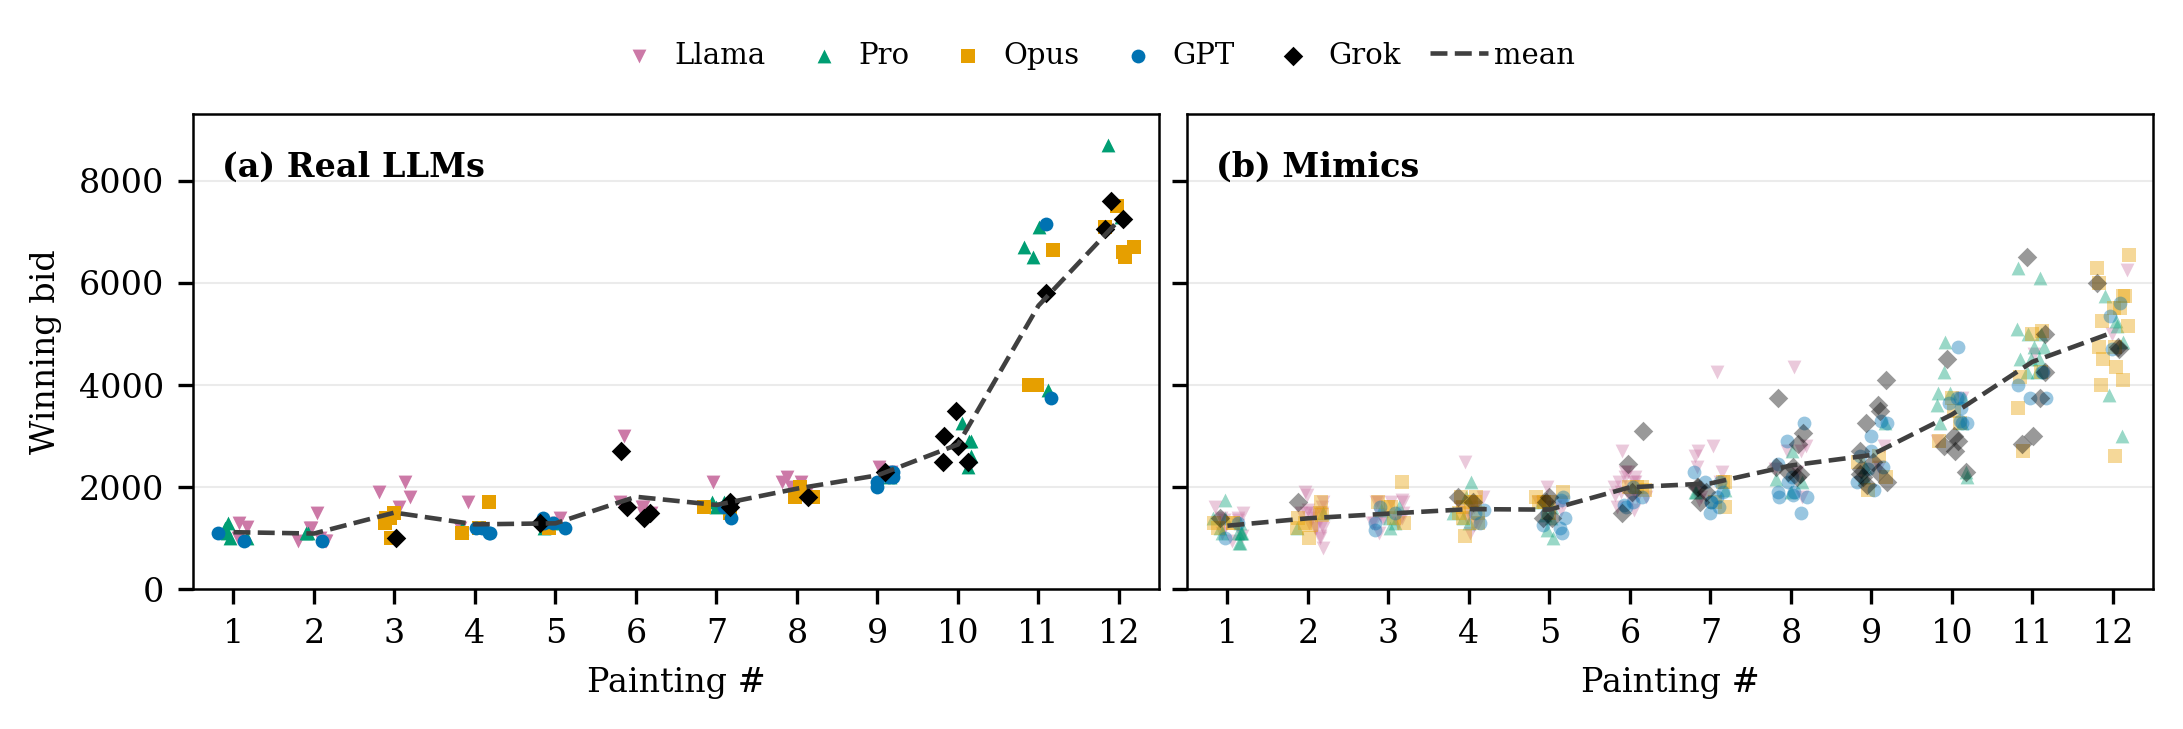
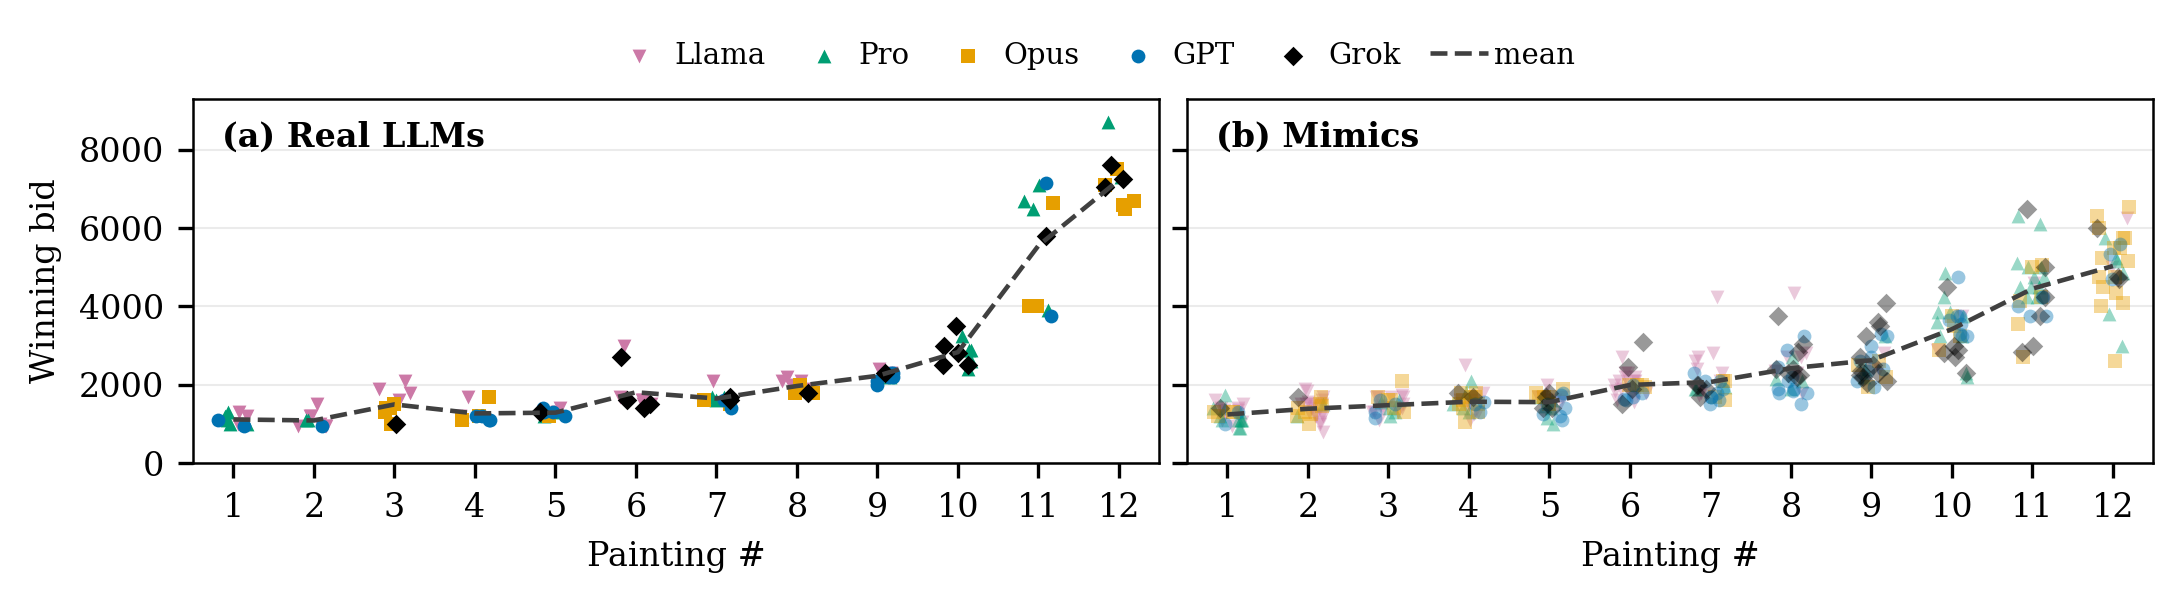
Flatten and downsize auction figures (0.9 textwidth, shorter)

diff --git a/auction_section_rewrite.tex b/auction_section_rewrite.tex
@@ -141,7 +141,7 @@ Pro     & 667 & $0.91 \pm 0.03$ & 1.55 \\
 
 \begin{figure*}[t]
 \centering
-\includegraphics[width=\textwidth]{auction_bids}
+\includegraphics[width=0.9\textwidth]{auction_bids}
 \caption{Winning bid per painting, by winning bidder: (a)~ten real-LLM and (b)~thirty mimic auctions (shared axes; dashed = per-painting mean). Both escalate at the end, but the mimics compress the spike ($3.8\times$ vs $2.4\times$ for the P11--P12 mean over P1--P10), missing the rare jump bids.}
 \label{fig:auction_bids}
 \end{figure*}
@@ -170,7 +170,7 @@ RL               & \textbf{33.5\%} & 36.7\% \\
 
 \begin{figure*}[t]
 \centering
-\includegraphics[width=\textwidth]{math_wins_by_position}
+\includegraphics[width=0.9\textwidth]{math_wins_by_position}
 \caption{Auctions won by painting position, per math policy (50 auctions; one panel each, others faint; dashed = $20\%$ fair share). Trivial, Market-Clearing, and RL front-load (winning the cheap early lots, then fading); Fair-Share is back-loaded, taking only the costly final lots, hence its lowest total.}
 \label{fig:math_wins_by_position}
 \end{figure*}

diff --git a/simulation/make_math_position_figure.py b/simulation/make_math_position_figure.py
@@ -60,7 +60,7 @@ for fname, tier, c in WANT:
 plt.rcParams.update({"font.family": "serif", "font.size": 8, "axes.linewidth": 0.6})
 tiers = [t for _, t, _ in WANT]
 # full-width thin banner: five panels in a row
-fig, axes = plt.subplots(1, 5, sharey=True, figsize=(7.16, 1.8))
+fig, axes = plt.subplots(1, 5, sharey=True, figsize=(7.16, 1.45))
 x = np.arange(1, 13)
 for ax, focal in zip(axes, tiers):
     for t in tiers:                       # faint backdrop of all others

diff --git a/simulation/make_auction_figures.py b/simulation/make_auction_figures.py
@@ -67,7 +67,7 @@ ymax = max(b for _, _, b in real + mimic)
 ylim = (0, int(np.ceil(ymax / 1000.0)) * 1000 + 300)
 
 # full-width thin banner: two panels side by side
-fig, axes = plt.subplots(1, 2, sharey=True, figsize=(7.16, 2.2))
+fig, axes = plt.subplots(1, 2, sharey=True, figsize=(7.16, 1.8))
 draw(axes[0], real, ylim, alpha=1.0)
 draw(axes[1], mimic, ylim, alpha=0.4)
 axes[0].set_ylabel("Winning bid")
